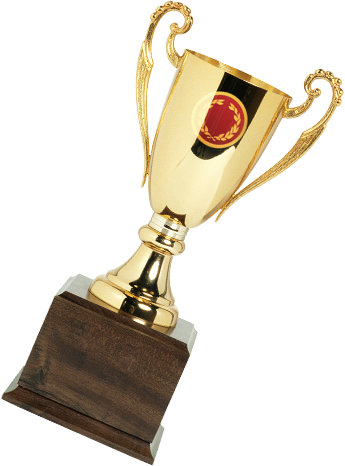
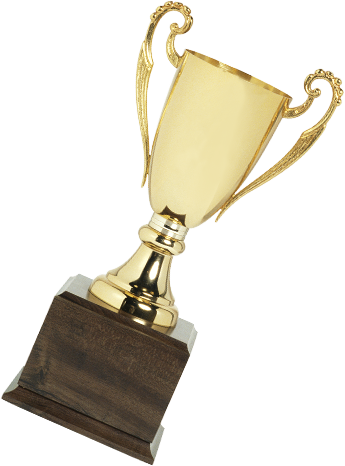
fix cup

Changed region(s): [[0.5507, 0.1502, 0.7826, 0.4206]]

diff --git a/adwise/olimp/olimp_all.js b/adwise/olimp/olimp_all.js
@@ -32,8 +32,8 @@ p.nominalBounds = new cjs.Rectangle(0,0,175,54);
 p.nominalBounds = new cjs.Rectangle(0,0,101,76);
 
 
-(lib.cup = function() {
-	this.initialize(img.cup);
+(lib.cup1 = function() {
+	this.initialize(img.cup1);
 }).prototype = p = new cjs.Bitmap();
 p.nominalBounds = new cjs.Rectangle(0,0,345,466);
 
@@ -727,13 +727,13 @@ p.nominalBounds = new cjs.Rectangle(0,0,175,54);
 	// Слой 4 (mask)
 	var mask_1 = new cjs.Shape();
 	mask_1._off = true;
[1 lines of base64/hex data omitted]
-	mask_1.setTransform(213.9,118.1);
[1 lines of base64/hex data omitted]
+	mask_1.setTransform(125,76.7);
 
 	// Слой 5
 	this.instance_1 = new lib.logo();
 	this.instance_1.parent = this;
-	this.instance_1.setTransform(208,82.2,0.779,0.779,26.7);
+	this.instance_1.setTransform(206,81.2,0.779,0.779,26.7);
 
 	var maskedShapeInstanceList = [this.instance_1];
 
@@ -744,7 +744,7 @@ p.nominalBounds = new cjs.Rectangle(0,0,175,54);
 	this.timeline.addTween(cjs.Tween.get(this.instance_1).wait(1));
 
 	// Слой 1
-	this.instance_2 = new lib.cup();
+	this.instance_2 = new lib.cup1();
 	this.instance_2.parent = this;
 
 	this.timeline.addTween(cjs.Tween.get(this.instance_2).wait(1));
@@ -910,7 +910,7 @@ p.nominalBounds = new cjs.Rectangle(683,272.1,162,141);
 	this.timeline.addTween(cjs.Tween.get(this.instance).to({x:167.8,y:242.5},9,cjs.Ease.get(-1)).to({x:162.5,y:253},10,cjs.Ease.get(1)).to({x:167.5,y:243},10,cjs.Ease.get(-1)).to({x:172.5,y:233},10,cjs.Ease.get(1)).wait(1));
 
 }).prototype = p = new cjs.MovieClip();
-p.nominalBounds = new cjs.Rectangle(-172.4,0,574,627.3);
+p.nominalBounds = new cjs.Rectangle(-172.4,0,572,627.3);
 
 
 (lib.Символ33 = function(mode,startPosition,loop) {
@@ -923,7 +923,7 @@ p.nominalBounds = new cjs.Rectangle(-172.4,0,574,627.3);
 
 	this.timeline.addTween(cjs.Tween.get(this.instance).wait(1));
 
-}).prototype = getMCSymbolPrototype(lib.Символ33, new cjs.Rectangle(-144.4,0,574,627.3), null);
+}).prototype = getMCSymbolPrototype(lib.Символ33, new cjs.Rectangle(-144.4,0,572,627.3), null);
 
 
 (lib.Символ13 = function(mode,startPosition,loop) {
@@ -1133,17 +1133,17 @@ lib.properties = {
 	color: "#FFFFFF",
 	opacity: 1.00,
 	manifest: [
-		{src:"images/BasketballPNG.png?1488362041288", id:"BasketballPNG"},
-		{src:"images/bball.png?1488362041288", id:"bball"},
-		{src:"images/btn.png?1488362041288", id:"btn"},
-		{src:"images/card.png?1488362041288", id:"card"},
-		{src:"images/cup.png?1488362041288", id:"cup"},
-		{src:"images/fball.png?1488362041288", id:"fball"},
-		{src:"images/hokey.png?1488362041288", id:"hokey"},
-		{src:"images/like.png?1488362041288", id:"like"},
-		{src:"images/logo.png?1488362041288", id:"logo"},
-		{src:"images/photo.jpg?1488362041288", id:"photo"},
-		{src:"images/tennis_PNG10405.png?1488362041288", id:"tennis_PNG10405"}
+		{src:"images/BasketballPNG.png?1488363882758", id:"BasketballPNG"},
+		{src:"images/bball.png?1488363882758", id:"bball"},
+		{src:"images/btn.png?1488363882758", id:"btn"},
+		{src:"images/card.png?1488363882758", id:"card"},
+		{src:"images/cup1.png?1488363882758", id:"cup1"},
+		{src:"images/fball.png?1488363882758", id:"fball"},
+		{src:"images/hokey.png?1488363882758", id:"hokey"},
+		{src:"images/like.png?1488363882758", id:"like"},
+		{src:"images/logo.png?1488363882758", id:"logo"},
+		{src:"images/photo.jpg?1488363882758", id:"photo"},
+		{src:"images/tennis_PNG10405.png?1488363882758", id:"tennis_PNG10405"}
 	],
 	preloads: []
 };

diff --git a/adwise/olimp/olimp_all.html b/adwise/olimp/olimp_all.html
@@ -14,7 +14,7 @@
 <title>olimp_all</title>
 <!-- write your code here -->
 <script src="https://code.createjs.com/createjs-2015.11.26.min.js"></script>
-<script src="olimp_all.js?1488362041393"></script>
+<script src="olimp_all.js?1488363882792"></script>
 <script>
 var canvas, stage, exportRoot, anim_container, dom_overlay_container, fnStartAnimation;
 function init() {
